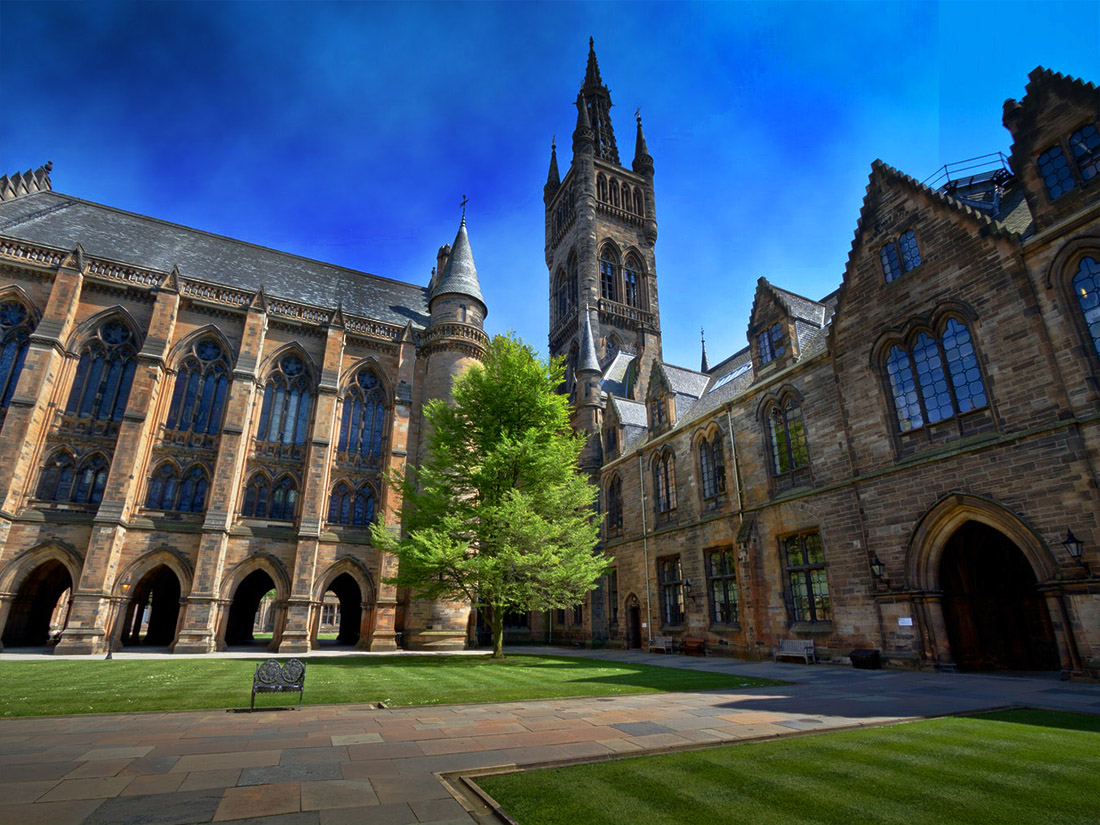
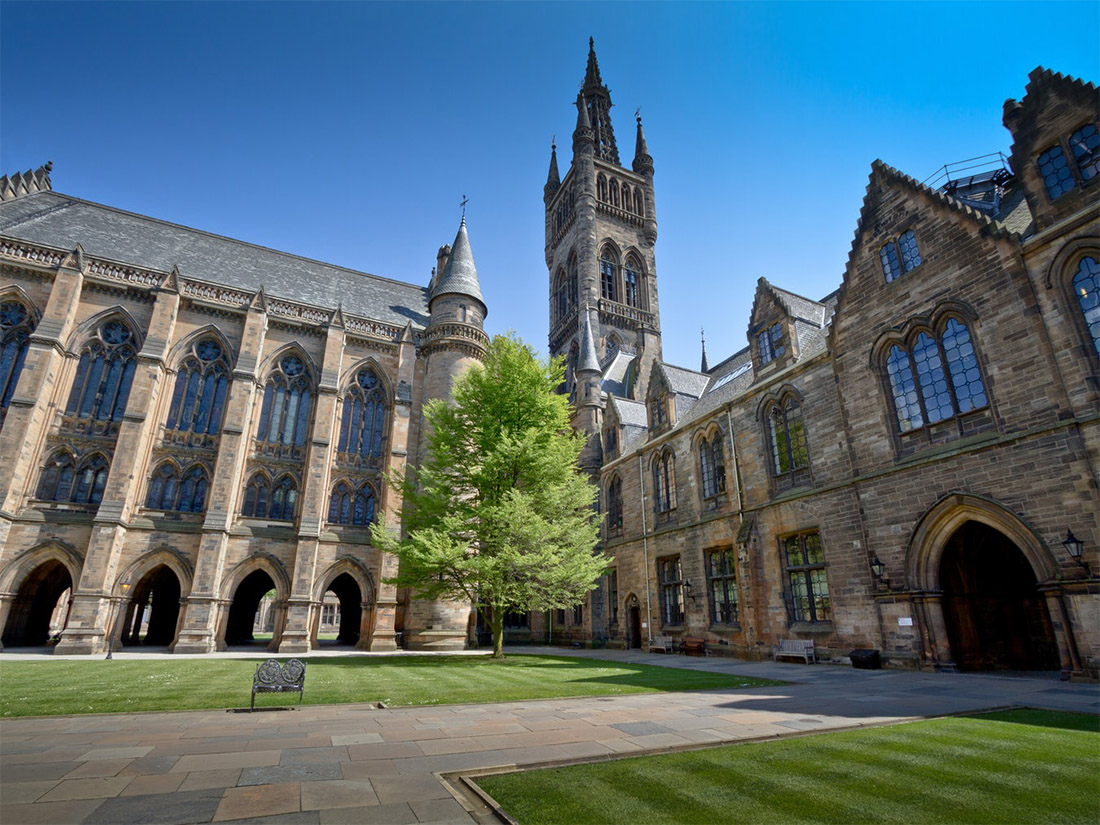
Updates

diff --git a/css/style.css b/css/style.css
@@ -154,3 +154,216 @@ footer p {
 	padding-bottom: 2%;
 	background-color: white;
 }
+
+/*-----------
+DEVICES > 600PX
+------------*/
+
+@media screen and (min-width: 600px) {
+
+/* TOP MENU */
+header ul {
+	position: absolute;
+	top: 8%;
+	text-align: center;
+	background: white;
+}
+
+header li, header li a {
+	display: inline-block;
+	background-color: transparent;
+	border-bottom: none;
+	color: #4a525F;
+	padding: 5px;
+}
+
+header li {
+	border-right: 1px solid #4a525f;
+}
+
+header li:last-child{
+	border-right: none;
+
+}
+
+header li:hover, header li a:hover{
+	background-color: #d8cccc;
+}
+
+/* TOP MENU END */
+
+header p {
+	bottom: 40%;
+	font-size: 2em;
+}
+
+#apply-btn {
+	bottom: 30%;
+}
+
+.row1-1 {
+	width: 50%;
+	margin-top: 2%;
+}
+
+.row1-2 {
+	display: flex;
+	width: 50%;
+	justify-content: center;
+	align-items: center;
+	background: white;
+}
+
+.row1-2 p {
+	max-width: 60%;
+}
+
+.row2 p {
+	font-size: 2em;
+}
+
+.sarah, .tom {
+	width: 50%;
+	float: left;
+	padding-bottom: 2%;
+}
+
+.row3 {
+	display: flex;
+}
+
+.row3-1 {
+	display: flex;
+	flex: 1;
+	justify-content: center;
+	align-items: center;
+	background: white;
+}
+
+.row3-1 p {
+	max-width: 60%;
+}
+
+.row3-2 {
+	flex: 1;
+}
+
+/* FOOTER MENU */
+
+footer ul {
+	text-align: center;
+	background: #8393ca;
+	margin: 0;
+}
+
+footer li, footer li a {
+	display: inline-block;
+	background-color: transparent;
+	border-bottom: none;
+	padding: 5px;
+}
+
+footer li {
+	border-right: 1px solid #4a525f;
+}
+
+footer li:last-child{
+	border-right: none;
+}
+
+footer li:hover, footer li a:hover{
+	background: #3e486a;
+}
+
+footer p {
+	padding-top: 2%;
+	background: #e0e0eb;
+	font-size: 1.2em;
+}
+}
+
+/*-----------
+DEVICES > 900PX
+------------*/
+
+@media screen and (min-width: 900px) {
+
+
+	body{
+		max-width: 1100px;
+	}
+
+	header ul {
+		max-width: 1100px;
+		background-color: transparent;
+		text-align: right;
+		top: 1%;
+		right: 2%;
+	}
+
+	header p {
+		font-size: 2.2em;
+		font-weight: bold;
+		max-width: 1100px;
+	}
+
+	#logo p {
+		text-align: left;
+		padding-left: 1%;
+	}
+
+	.row1-1 {
+		font-size: 1.2em;
+	}
+
+	.row1-2, .row2 p, .row3-1 {
+		font-size: 2.5em;
+	}
+
+	footer p {
+		font-size: 1.5em;
+	}
+}
+
+/*-----------
+DEVICES > 1100PX
+------------*/
+
+@media screen and (min-width: 1100px) {
+
+
+	body{
+		max-width: 1920px;
+	}
+
+	header ul {
+		max-width: 1100px;
+		background-color: transparent;
+		text-align: right;
+		top: 1%;
+		right: 2%;
+	}
+
+	header p {
+		font-size: 2.2em;
+		font-weight: bold;
+		max-width: 1100px;
+	}
+
+	#logo p {
+		text-align: left;
+		padding-left: 1%;
+	}
+
+	.row1-1 {
+		font-size: 1.2em;
+	}
+
+	.row1-2, .row2 p, .row3-1 {
+		font-size: 2.5em;
+	}
+
+	footer p {
+		font-size: 1.5em;
+	}
+}

diff --git a/index.html b/index.html
@@ -22,9 +22,10 @@
 
 	<header>
 		<picture>
-			<source media="(min-width: 1100px)" srcset="images/university1-1100.jpg">
-			<source media="(min-width: 900px)" srcset="images/university1-900.jpg">
-				<img src="images/university1-600.jpg" alt="university image">
+			<source media="(min-width: 1920px)" srcset="images/university1-1920.jpg">
+			<source media="(min-width: 1100px)" srcset="images/university3-1100.jpg">
+			<source media="(min-width: 900px)" srcset="images/university3-900.jpg">
+				<img src="images/university3-600.jpg" alt="university image">
 		</picture>
 
 		<div id="logo"><p>MyCollege</p></div>
@@ -54,12 +55,12 @@
 		</div>
 
 		<div class="row2">
-			<p>Want to know more about life at myCollege?</p>
+			<p>Want to know more about life at MyCollege?</p>
 			<p>See what our former students have to say</p>
 
 			<div class="tom">
 				<img src="images/man1.png">
-				<p>Tom´s Story</p>
+				<p>50 Cent´s Story</p>
 			</div>
 			<div class="sarah">
 				<img src="images/woman1.png">
@@ -72,7 +73,7 @@
 				<p>Discover our state of the art facilities<span><a href=""> here</a></span></p>
 			</div>
 			<div class="row3-2">
-				<img src="images/volleyball1.jpg">
+				<img src="images/volleyball2.jpg">
 			</div>
 		</div>
 	</main>
